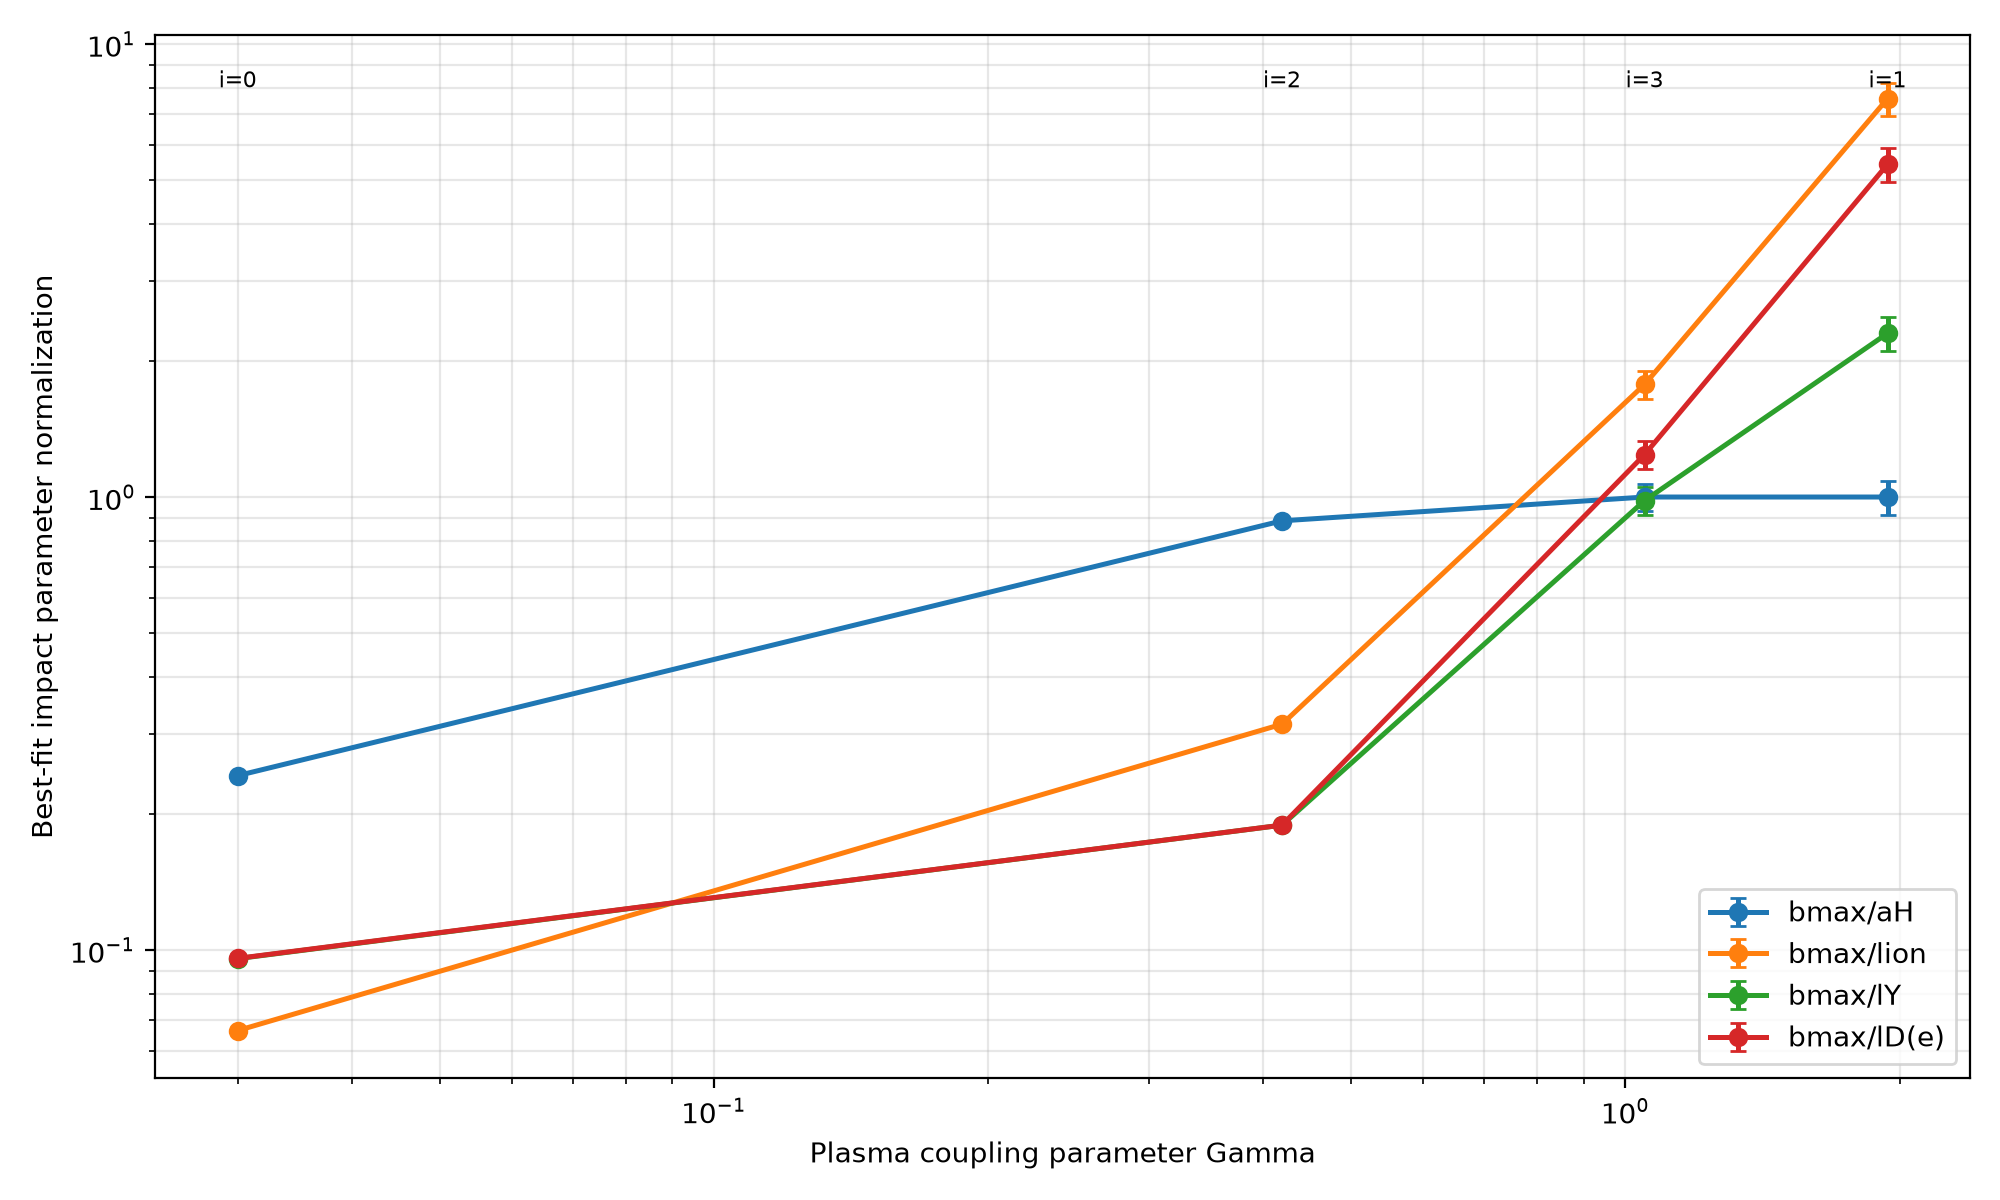
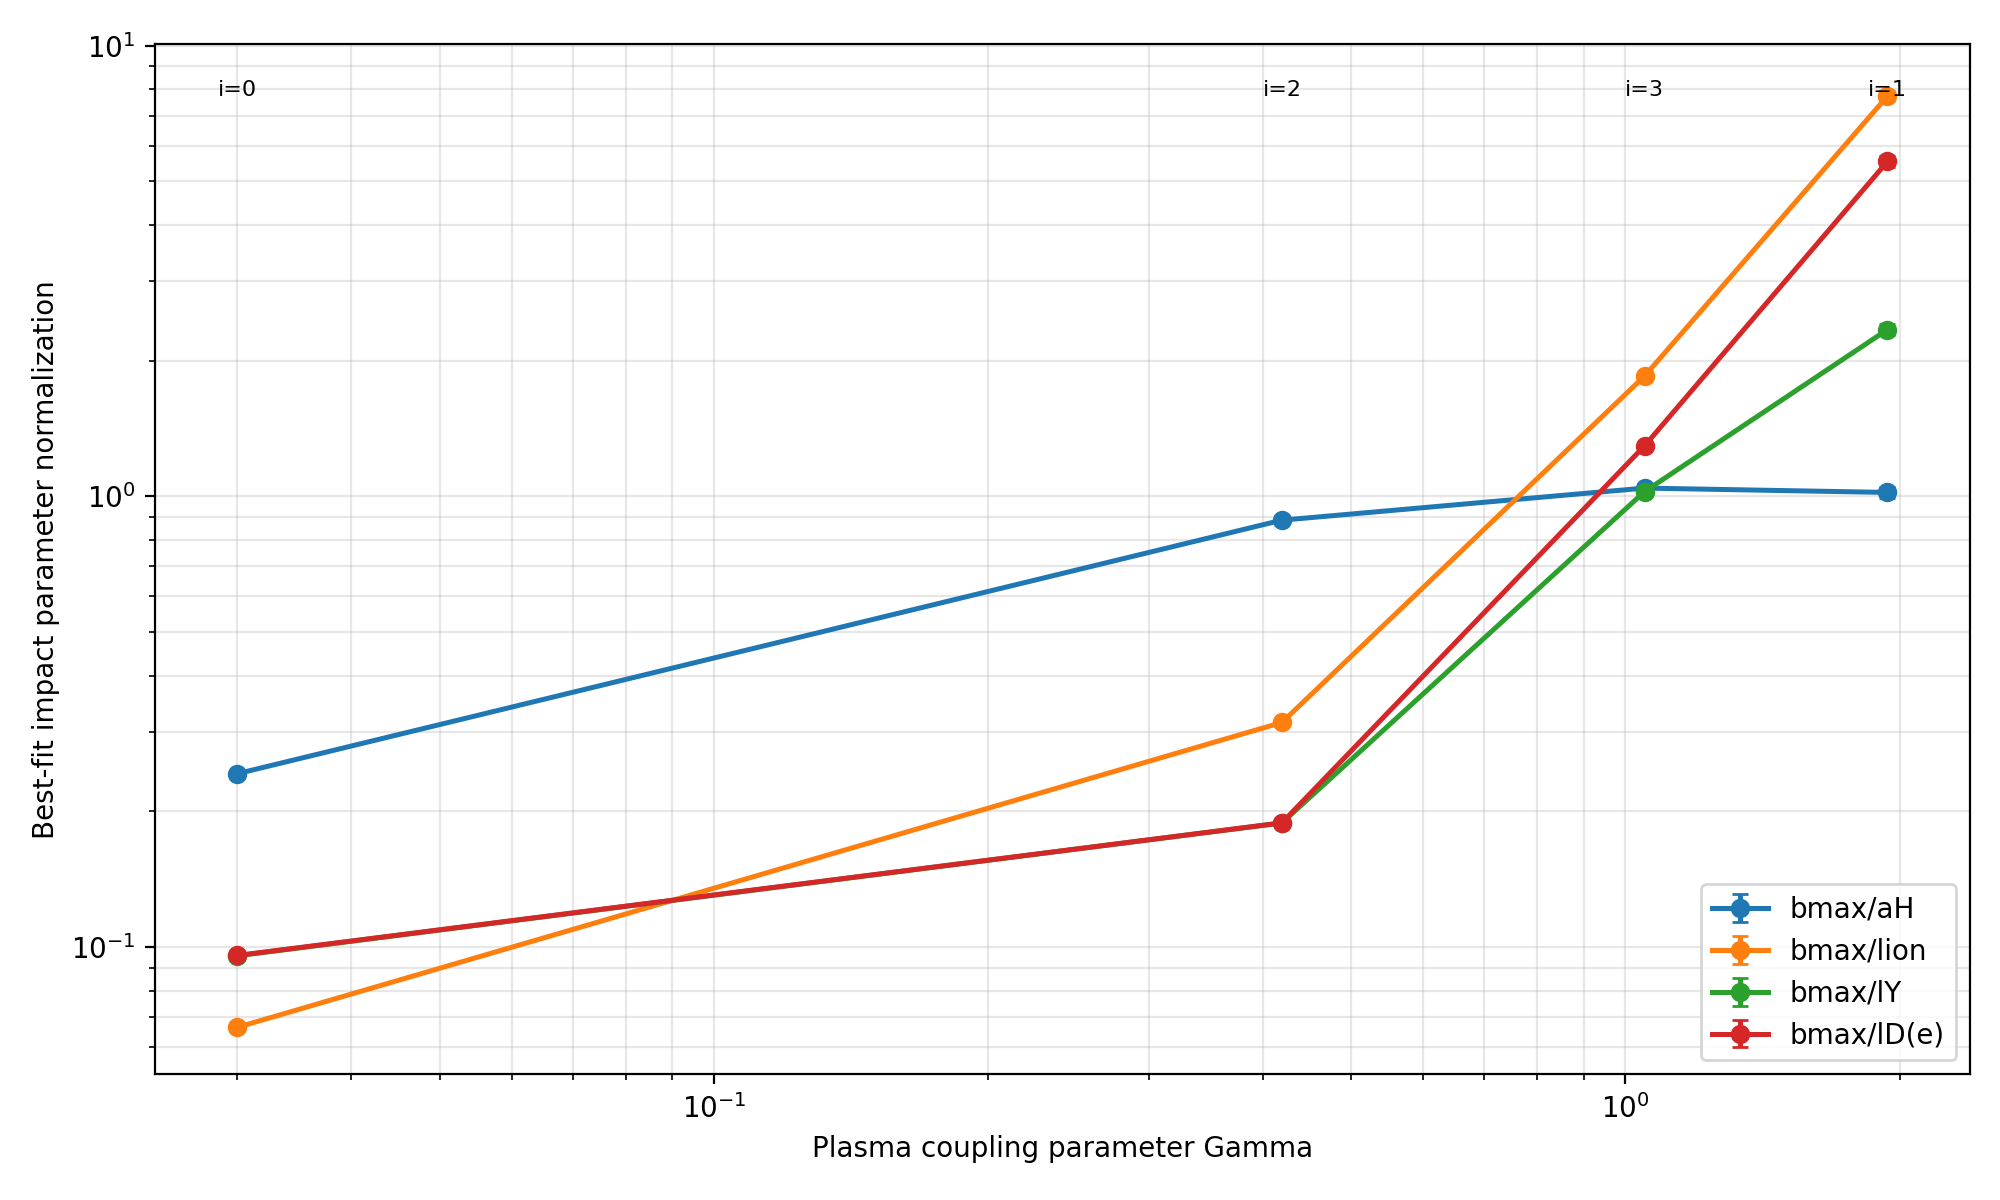
7/17

diff --git a/theory/validation/impactparameterfit/run_impact_parameter_fit.py b/theory/validation/impactparameterfit/run_impact_parameter_fit.py
@@ -173,6 +173,24 @@ def campaign_velocity(campaign_points: list[DataPoint]) -> float:
     return max(point.velocity_cm_s for point in campaign_points)
 
 
+def select_campaigns_near_targets(
+    campaigns: dict[int, list[DataPoint]],
+    targets: np.ndarray,
+) -> list[list[DataPoint]]:
+    candidates = dict(campaigns)
+    selected: list[list[DataPoint]] = []
+    for target in targets:
+        if not candidates:
+            break
+        campaign_id, campaign_points = min(
+            candidates.items(),
+            key=lambda item: abs(math.log(campaign_velocity(item[1]) / target)),
+        )
+        selected.append(campaign_points)
+        del candidates[campaign_id]
+    return selected
+
+
 def select_log_spaced_campaign_points(
     points: list[DataPoint],
     count: int,
@@ -191,17 +209,45 @@ def select_log_spaced_campaign_points(
     if len(candidates) < count:
         candidates = campaigns
 
-    selected_campaigns: list[list[DataPoint]] = []
     targets = np.geomspace(min_velocity_cm_s, max_velocity_cm_s, count)
-    for target in targets:
-        campaign_id, campaign_points = min(
-            candidates.items(),
-            key=lambda item: abs(math.log(campaign_velocity(item[1]) / target)),
-        )
-        selected_campaigns.append(campaign_points)
-        del candidates[campaign_id]
-        if not candidates:
-            break
+    selected_campaigns = select_campaigns_near_targets(candidates, targets)
+
+    selected = [lowest_relative_error_points(campaign_points, 1)[0] for campaign_points in selected_campaigns]
+    return sorted(selected, key=lambda point: point.velocity_cm_s)
+
+
+def select_condition_3_campaign_points(points: list[DataPoint], count: int) -> list[DataPoint]:
+    campaigns = group_points_by_lammps_campaign(points)
+    if len(campaigns) < count:
+        return lowest_relative_error_points(points, count)
+
+    low_count = min(6, count)
+    high_count = max(0, count - low_count)
+    low_campaigns = {
+        campaign_id: campaign_points
+        for campaign_id, campaign_points in campaigns.items()
+        if 1.0e5 <= campaign_velocity(campaign_points) <= 2.0e6
+    }
+    if len(low_campaigns) < low_count:
+        return select_log_spaced_campaign_points(points, count)
+
+    selected_campaigns = select_campaigns_near_targets(
+        low_campaigns,
+        np.geomspace(1.0e5, 2.0e6, low_count),
+    )
+    selected_ids = {
+        campaign_id
+        for campaign_id, campaign_points in campaigns.items()
+        if campaign_points in selected_campaigns
+    }
+    high_campaigns = {
+        campaign_id: campaign_points
+        for campaign_id, campaign_points in campaigns.items()
+        if campaign_id not in selected_ids and 2.0e6 < campaign_velocity(campaign_points) <= 1.0e8
+    }
+    selected_campaigns.extend(
+        select_campaigns_near_targets(high_campaigns, np.geomspace(2.0e6, 1.0e8, high_count))
+    )
 
     selected = [lowest_relative_error_points(campaign_points, 1)[0] for campaign_points in selected_campaigns]
     return sorted(selected, key=lambda point: point.velocity_cm_s)
@@ -213,11 +259,19 @@ def select_fit_points(points: list[DataPoint], points_per_condition: int) -> tup
     for condition in sorted({point.condition for point in points}):
         group = [point for point in points if point.condition == condition]
         if condition in STRONGLY_COUPLED_CONDITIONS:
-            condition_points = select_log_spaced_campaign_points(group, points_per_condition)
+            if condition == 3:
+                condition_points = select_condition_3_campaign_points(group, points_per_condition)
+            else:
+                condition_points = select_log_spaced_campaign_points(group, points_per_condition)
             if len({lammps_campaign_id(point) for point in condition_points if lammps_campaign_id(point) is not None}) == len(condition_points):
-                descriptions[condition] = (
-                    "lowest acceleration_sigma / acceleration point from roughly log-spaced LAMMPS campaigns between 1e5 and 1e8 cm/s"
-                )
+                if condition == 3:
+                    descriptions[condition] = (
+                        "lowest acceleration_sigma / acceleration point from LAMMPS campaigns, with 6 of 8 from 1e5-2e6 cm/s"
+                    )
+                else:
+                    descriptions[condition] = (
+                        "lowest acceleration_sigma / acceleration point from roughly log-spaced LAMMPS campaigns between 1e5 and 1e8 cm/s"
+                    )
             else:
                 descriptions[condition] = "lowest acceleration_sigma / acceleration"
         else:
@@ -280,6 +334,14 @@ def prediction_metadata(drag, fit_value: float, fit_parameter: str) -> dict[str,
 def progress_print(enabled: bool, message: str) -> None:
     if enabled:
         print(message, flush=True)
+
+
+def default_fit_initial(fit_min: float, fit_max: float) -> float:
+    if fit_min > 0.0 and np.isfinite(fit_max):
+        return math.sqrt(fit_min * fit_max)
+    if fit_min == 0.0 and np.isfinite(fit_max):
+        return 0.5 * fit_max
+    return max(1.0, fit_min if np.isfinite(fit_min) else 1.0)
 
 
 def run_fit_point_case(task: tuple[int, float, str, DataPoint, int, int, int, int]) -> dict[str, object]:
@@ -669,9 +731,14 @@ def main() -> None:
             "rhomax fits bmax/lD; outer-radius fits the starting radius relative to the default interparticle spacing."
         ),
     )
-    parser.add_argument("--fit-min", type=float, default=0.03)
-    parser.add_argument("--fit-max", type=float, default=1.0)
-    parser.add_argument("--fit-initial", type=float, default=None, help="Initial guess for the fitted cutoff; defaults to sqrt(fit-min * fit-max).")
+    parser.add_argument("--fit-min", type=float, default=0.0)
+    parser.add_argument("--fit-max", type=float, default=math.inf)
+    parser.add_argument(
+        "--fit-initial",
+        type=float,
+        default=None,
+        help="Initial guess for the fitted cutoff; defaults to 1 for the unbounded fit.",
+    )
     parser.add_argument("--max-fit-evaluations", type=int, default=20)
     parser.add_argument("--data-csv", type=Path)
     parser.add_argument("--lammps-results", type=Path, default=REPO_ROOT / "unforced" / "dataarchive" / "nprun4_29" / "results.npy")
@@ -692,8 +759,8 @@ def main() -> None:
     parser.add_argument("--ures", type=int, default=180)
     parser.add_argument("--dphires", type=int, default=180)
     args = parser.parse_args()
-    if args.fit_min <= 0.0 or args.fit_max <= 0.0 or args.fit_min >= args.fit_max:
-        raise SystemExit("--fit-min and --fit-max must be positive with fit-min < fit-max.")
+    if args.fit_min < 0.0 or args.fit_max <= args.fit_min:
+        raise SystemExit("--fit-min must be >= 0 and --fit-max must be greater than --fit-min.")
 
     requested_conditions = set(args.conditions)
     unknown_conditions = requested_conditions.difference(ALL_CONDITIONS)
@@ -713,7 +780,7 @@ def main() -> None:
         condition: [point for point in fit_points if point.condition == condition]
         for condition in sorted(requested_conditions)
     }
-    fit_initial = args.fit_initial if args.fit_initial is not None else math.sqrt(args.fit_min * args.fit_max)
+    fit_initial = args.fit_initial if args.fit_initial is not None else default_fit_initial(args.fit_min, args.fit_max)
     with ProcessPoolExecutor(max_workers=args.workers) as pool:
         fit_results = [
             evaluate_fit_parallel(
